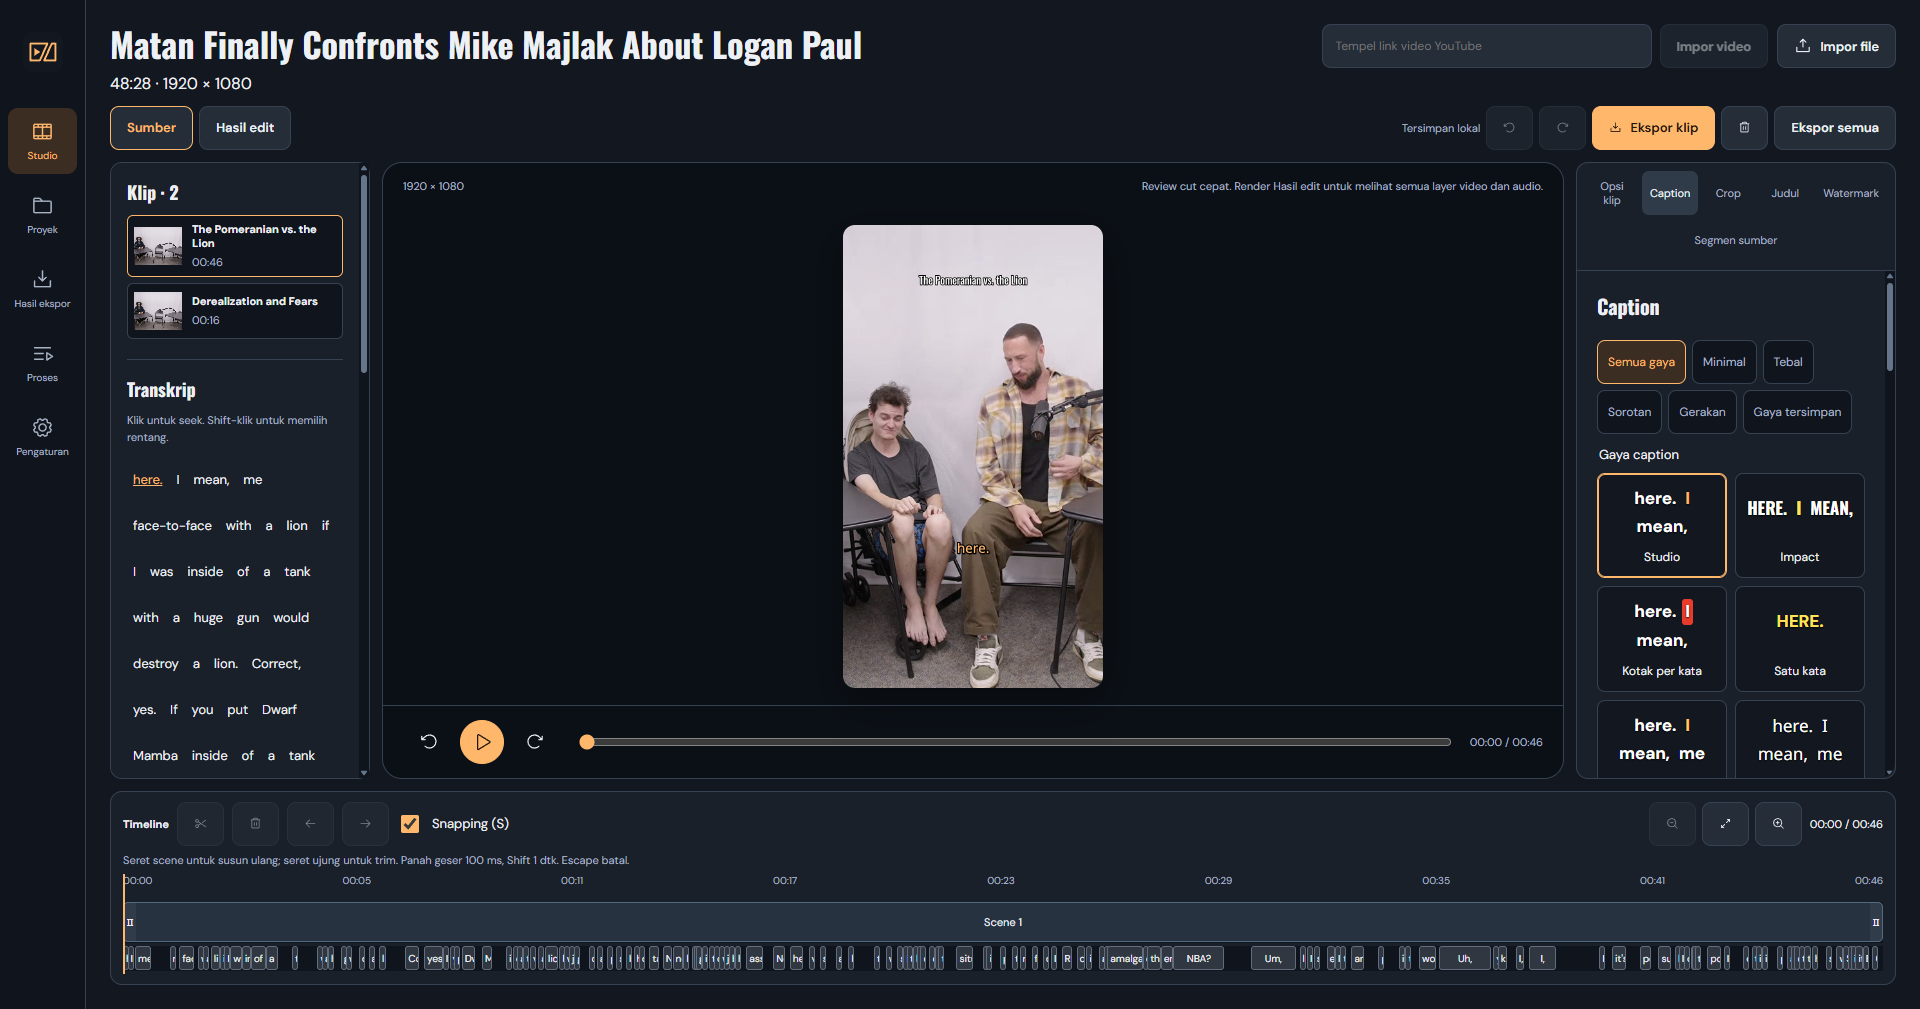
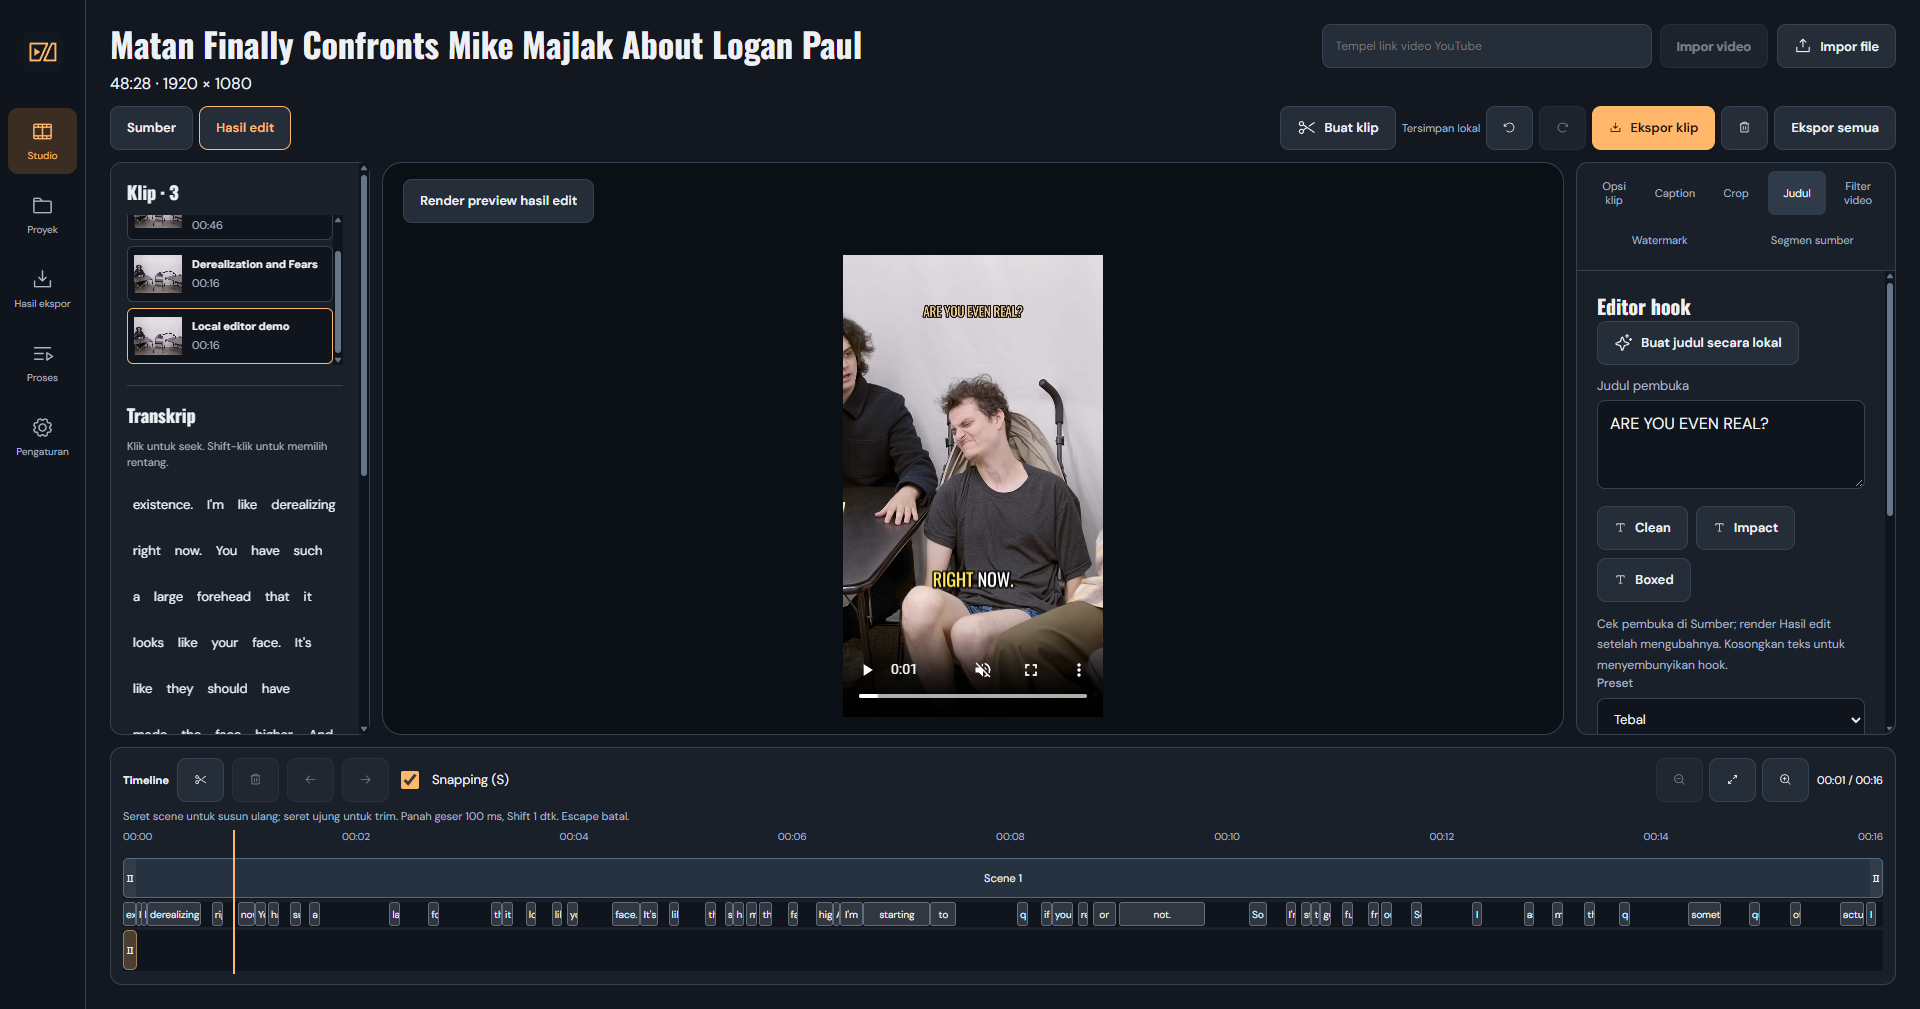
docs: document verified preview.8 delivery

diff --git a/docs/validation.md b/docs/validation.md
@@ -13,7 +13,10 @@ production compilation. Seven relevant browser scenarios passed after adding fil
 The actual imported source frame appears in all recipe cards; screenshot pixels confirm
 colored Natural and neutral Monochrome results. Keyboard selection, manual frame capture,
 saved filters, scene playback, and a single inspector scrollbar passed. Captures create no
-new render job or decoder. Native validation of this subsequent thumbnail change is pending.
+new render job or decoder. The ARM64 development host passed the same real-podcast thumbnail
+check at 1920 x 1009, with one themed scrollbar and unchanged edit/revision. Natural image
+chroma measured 13.598 and Monochrome 0.047. Evidence: .cache/filter-thumbnail-native.json.
+The separate published preview.8 check is recorded below.
 
 Anti-slop During gate, scoped: real-source images, original graphite/amber controls, readable
 names, pressed/focus states, lightweight thumbnails, explicit loading/missing states, and
@@ -56,8 +59,67 @@ Snapdragon X X126100 CPU with eight cores and approximately 16 GB physical RAM.
 Anti-slop During delivery gate: original graphite/amber identity, real media/data, functioning
 controls, keyboard labels/focus, preset selection, loading/error/disabled states, and a single
 outer inspector scrollbar passed scoped browser/native interactions. No duplicate SFX scrollbar
-was introduced. Full accessibility certification, installed updater execution, new packaged
-release checks, physical x64/macOS/Linux desktop runtime, and Android runtime remain pending.
+was introduced. Packaged preview.8 checks follow below. Full accessibility certification,
+installed updater execution, physical x64/macOS/Linux desktop runtime, and Android runtime
+remain pending.
+
+## Published preview.8 delivery, 2026-11-15
+
+Tagged source `0541949c0fe86f139e84c40605b2c31554bc707e` passed the hosted
+[quality workflow](https://github.com/bayurifkialghifari/unlimitedclipper/actions/runs/43680853335),
+[native editorial media workflow](https://github.com/bayurifkialghifari/unlimitedclipper/actions/runs/43680853326),
+and [Windows release workflow](https://github.com/bayurifkialghifari/unlimitedclipper/actions/runs/43680857358).
+These workflows validate source/build behavior and scoped media interactions; they do not
+certify all desktop platforms or automatic selection accuracy.
+
+The [public preview.8 release](https://github.com/bayurifkialghifari/unlimitedclipper/releases/tag/v0.1.0-preview.8)
+contains eight assets. Anonymous downloads matched all eight server sizes and SHA-256 digests.
+Both installer publisher signatures passed independent verification, including their signed
+version. The ARM64 installer is 227,250,162 bytes; x64 is 288,198,793 bytes. Extracted application
+PE headers match ARM64 and x64. Evidence: .cache/preview8-published.json,
+.cache/preview8-signature-validation.json, and .cache/preview8-native-binaries.json.
+
+After fresh idle, unsaved-edit, upload, native-modal, and process-path checks, the extracted
+published ARM64 executable opened on the owner's laptop. Health reports 0.1.0-preview.8
+and the native bridge is present. The real edited podcast played visible 720 x 1280 video
+with 35 decoded frames, zero dropped frames, and mean video pixels 120.66/255. Paused caption
+disable/re-enable repainted the canvas; the document was restored. Selected audio exposed
+only its matching controls, changing inspector tabs reset scroll, and all 18 managed assets
+resolved. The original user clip matched a fresh pre-test SQLite baseline. Evidence:
+.cache/preview8-native-final.json and .cache/preview8-native-studio.png.
+
+The subsequent native filter check showed all five actual-source recipes with colored Natural
+and neutral Monochrome images, one themed scrollbar at 1920 x 1009, no horizontal overflow,
+and no edit/revision change from frame capture. Evidence: .cache/preview8-native-filters.json
+and .cache/filter-thumbnail-native.png. The hero and filter screenshot are committed under
+docs/media; browser evidence remains separate from this native package check.
+
+Anti-slop During delivery gate, scoped: actual footage, original palette, readable named
+controls, working caption repaint/frame capture, matching inspector controls, and bounded
+scrolling passed the interactions above. Full accessibility certification remains pending.
+Installer install/uninstall, Authenticode signing, automatic updater installation, physical x64,
+macOS/Linux desktop runtime, and Android runtime were not tested.
+
+After the package checks, audited cleanup removed 7,702,961,917 bytes (7.17 GiB) of conservative
+unique-file bytes from Rust build caches, obsolete native snapshots, preview.6 downloads,
+extracted packages, the archive utility, and three cold test libraries. Resolved targets
+remained inside the workspace; junctions were rejected, compiler activity was absent, and
+running-process references were checked immediately before each removal. Canonical data,
+tools, models, current installers/runtime, publisher keys, and four completed fixtures were
+retained. The final measurement was 13,804,760,726 unique file bytes (12.86 GiB), excluding
+symlink traversal. This is a point-in-time measurement; builds grow caches again.
+Evidence: .cache/preview8-cleanup-audit.json, .cache/preview8-cleanup-applied.json, and
+.cache/preview8-storage-final.json.
+
+The post-cleanup check passed four ready models, all 18 registered assets, unchanged clip
+JSON, and unchanged hashes for the published executable, studio entry point, and real demo
+export. An initial helper assertion compared SQLite row prototypes against parsed JSON;
+normalizing those rows to JSON fixed the checker, and the repeated value comparison passed.
+Evidence: .cache/preview8-retained-before.json and .cache/preview8-retained-after.json.
+The published ARM64 application remains open.
+Final documentation/media delivery passed npm run check, including ESLint, Prettier,
+TypeScript, four unit/asset checks, and production compilation. Rust source was unchanged
+after the tagged source checks.
 
 ## Caption library and local ratings, 2026-11-14
 

diff --git a/README.md b/README.md
@@ -17,7 +17,7 @@ A local video clipping studio built with Rust, React, SQLite, and Tauri.
 **Made for fun, still experimental.** This is a side project for tinkering with local video tools,
 mostly for fun and learning, at a relaxed pace. Expect rough edges and changing features.
 
-<img src="docs/media/studio.png" alt="Published Windows ARM64 studio reviewing a real podcast with its transcript, scene timeline, and single-scroll caption inspector" width="1920" height="1009" />
+<img src="docs/media/studio.png" alt="Published preview.8 Windows ARM64 studio playing a real podcast edit with its opening hook, captions, transcript, and timeline" width="1920" height="1009" />
 
 Import a long recording, find or choose a cut, review its words, and export a captioned video.
 Speech recognition and clip selection run locally after the models are installed. No cloud AI
@@ -25,11 +25,11 @@ account or API key is required.
 
 ## Download the Windows preview
 
-[Download Windows ARM64 (216 MiB)](https://github.com/bayurifkialghifari/unlimitedclipper/releases/download/v0.1.0-preview.6/UnlimitedClipper_0.1.0-preview.6_arm64-setup.exe)
+[Download Windows ARM64 (217 MiB)](https://github.com/bayurifkialghifari/unlimitedclipper/releases/download/v0.1.0-preview.8/UnlimitedClipper_0.1.0-preview.8_arm64-setup.exe)
 for Snapdragon/ARM PCs, or
-[download Windows x64 (274 MiB)](https://github.com/bayurifkialghifari/unlimitedclipper/releases/download/v0.1.0-preview.6/UnlimitedClipper_0.1.0-preview.6_x64-setup.exe)
+[download Windows x64 (275 MiB)](https://github.com/bayurifkialghifari/unlimitedclipper/releases/download/v0.1.0-preview.8/UnlimitedClipper_0.1.0-preview.8_x64-setup.exe)
 for Intel/AMD PCs. Both belong to the same
-[preview release](https://github.com/bayurifkialghifari/unlimitedclipper/releases/tag/v0.1.0-preview.6).
+[preview release](https://github.com/bayurifkialghifari/unlimitedclipper/releases/tag/v0.1.0-preview.8).
 
 The repository and preview downloads are public; no GitHub account is required. Install local models
 from the dropdown in Settings after installation; manual model-file import remains optional. Updater
@@ -99,6 +99,10 @@ The desktop window and localhost browser use the same Rust engine and saved libr
 supports Indonesian and English. Video files stay in managed folders; SQLite stores project data
 and edit revisions.
 
+Exports appear under **Export results** with playable MP4s and subtitle downloads. Development
+saves them in `.data/exports`; an installed app uses its OS application-data directory. A custom
+export folder in Settings is planned for a later update.
+
 For a constrained PC, choose Economy in Settings: 1.7B proposes moments and installed 4B reviews
 the complete candidates. Models load one at a time with a 4,096-token context. Start with
 Whisper small and 720p output; use optional medium only on uncertain cuts. This reduces the
@@ -106,6 +110,15 @@ scope of expensive work but does not guarantee speed or accurate clip selection.
 [local processing strategy](docs/research/economy-processing.md) and [actual validation](docs/validation.md).
 
 ## Screenshots
+
+### Compare video filters
+
+Five recipes show the same actual source frame. Capture another frame from the source player,
+then fine-tune brightness, contrast, saturation, and warmth. These lightweight images approximate
+the colors; render the edited preview to review the final composition. This screenshot comes
+from the published preview.8 ARM64 executable, with one themed inspector scrollbar.
+
+<img src="docs/media/filters.png" alt="Published Windows ARM64 studio with real-source Natural, Crisp, Warm, Cool, and Monochrome filter thumbnails" width="1920" height="1009" />
 
 ### Caption editing
 
@@ -185,8 +198,8 @@ reviewable automatic proposals. An optional 1.61 GiB
 native acoustic accuracy and speaker frontend remain unverified. No competitor-parity claim is made.
 
 Workspace getting large? Use the audited [cleanup helper](docs/storage.md). Recorded cleanup passes
-removed rebuildable outputs and cold fixtures; the final preview.5 workspace measured 14.73 GiB
-of unique file bytes, including both downloaded installers. Original videos,
+removed rebuildable outputs and cold fixtures; the latest preview.8 pass reclaimed 7.17 GiB,
+leaving about 12.86 GiB of unique file bytes, including both downloaded installers. Original videos,
 exports, and canonical models remain intact.
 
 Caption recognition still needs a human ear for slang, names, music, and shouting. Automatic moment

diff --git a/docs/media/README.md b/docs/media/README.md
@@ -5,13 +5,23 @@ works from a fresh checkout without relying on ignored `.cache` or `.data` files
 
 ## Screenshots
 
-Captured on 14 November 2026 from the browser studio at a 1920 × 1080 viewport. Settings uses a
+`studio.png` and `filters.png` were captured on 15 November 2026 from the extracted published
+preview.8 Windows ARM64 executable at 1920 × 1009. They show the separate Local editor demo
+in the owner's real podcast library, using Indonesian UI text. The hero shows its rendered hook
+and live captions; the filter capture shows five actual-source image recipes. Caption toggling
+restored the demo document, and frame capture preserved its revision. The owner's original clip
+was unchanged. Evidence: .cache/preview8-native-final.json and .cache/preview8-native-filters.json.
+Installer execution was not part of these checks.
+
+The remaining screenshots were captured on 14 November 2026 from the browser studio at a
+1920 × 1080 viewport. Settings uses a
 1920 × 1503 full-page capture. The interface uses its English dictionary. A consistent SQLite
 snapshot and hard-linked managed footage provided an isolated copy of the actual library.
 Creating the manual demo changed only that copy. No competitor screenshots were substituted.
 
-- `studio.png`: an 18-second manual podcast review with two scenes and the Motion style filter.
-- `captions.png`: the same review with the Word box look and a selected transcript word.
+- `studio.png`: the real 16.26-second edited podcast preview with an Impact/Pop hook and captions.
+- `filters.png`: actual source-frame thumbnails with Warm selected and one themed scrollbar.
+- `captions.png`: an isolated 18-second, two-scene review with Word box and a selected word.
 - `projects.png`: two real imports of the 48-minute Matan podcast.
 - `settings.png`: actual installed models, download/import actions, and update controls.
 - `rating.png`: an actual Qwen transcript assessment of the manual review, scored 74/100.

diff --git a/docs/storage.md b/docs/storage.md
@@ -70,3 +70,22 @@ traversal and including both downloaded Windows installers. New builds will grow
 Evidence: .cache/preview5-cold-cleanup-applied.json, .cache/preview5-build-cleanup-applied.json,
 .cache/preview5-final-cleanup-applied.json, .cache/preview5-storage-final.json, and
 .cache/preview5-native-final.json.
+
+## Preview.8 cleanup
+
+Once the published ARM64 runtime passed preview, caption repaint, and filter-thumbnail checks,
+an explicit delivery allowlist removed Rust build caches, preview.6 downloads/runtime,
+obsolete development hosts, extracted preview.8 packages, the archive utility, and three
+cold test libraries. All targets were resolved inside the workspace, checked for junctions,
+and checked against fresh running-process paths. No compiler was active.
+
+The pass reclaimed 7,702,961,917 bytes (7.17 GiB) using a conservative count that excludes
+multiply-linked files. Canonical .data/.tools, models, publisher keys, the running
+.cache/preview8-live application, both published installers, and four completed processing
+fixtures were retained. All 18 managed assets, four ready models, clip JSON, and runtime/demo
+hashes passed a separate post-cleanup comparison.
+
+The point-in-time workspace measurement was 13,804,760,726 unique file bytes (12.86 GiB),
+deduplicating inode identities and skipping symbolic links. This includes both installers;
+later imports and builds will change the total. Evidence: .cache/preview8-cleanup-applied.json,
+.cache/preview8-retained-after.json, and .cache/preview8-storage-final.json.

diff --git a/CHANGELOG.md b/CHANGELOG.md
@@ -9,6 +9,15 @@
 - Explicit thumbnail loading/missing states, named keyboard-operable presets, and small
   in-memory images. Final color review continues to use rendered preview/export.
 
+### Delivery and validation
+
+- Published Windows ARM64/x64 installers with verified anonymous downloads, SHA-256 checksums,
+  and version-bound publisher signatures.
+- Extracted ARM64 release playback, paused caption repaint, filter thumbnails, inspector
+  scrolling, and preservation of the original clip passed on a real podcast.
+- README includes current release downloads, native screenshots, a rendered hook/caption/SFX
+  example, and export-storage guidance. Installer execution and Android runtime remain untested.
+
 ## 0.1.0-preview.7 (2026-11-15)
 
 ### Added
